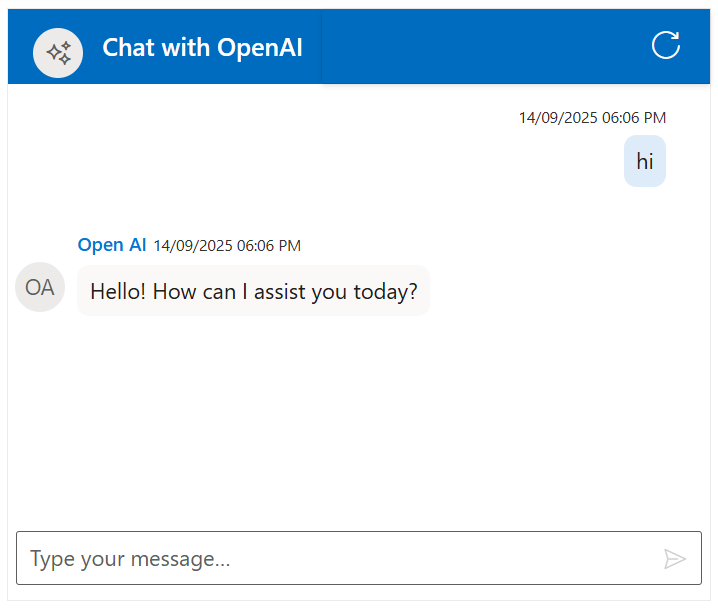
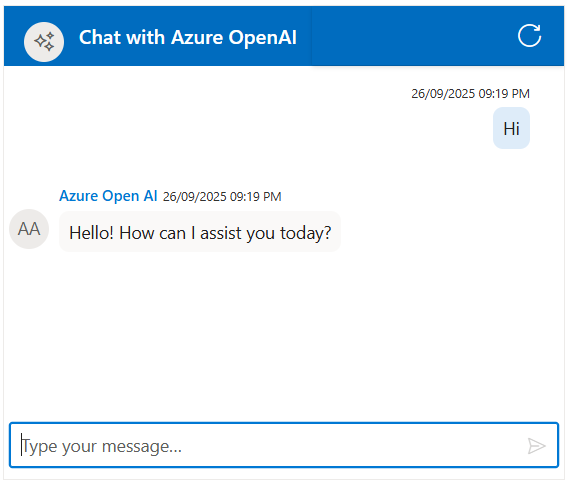
982586: conversion of OpenAI to Azure OpenAI

diff --git a/ej2-asp-core-toc.html b/ej2-asp-core-toc.html
@@ -589,7 +589,7 @@
 							<a href="/ej2-asp-core/chat-ui/ai-integrations/gemini-integration">Integration with Google Gemini</a>
 						</li>
 						<li>
-							<a href="/ej2-asp-core/chat-ui/ai-integrations/openai-integration">Integration with Open AI</a>
+							<a href="/ej2-asp-core/chat-ui/ai-integrations/openai-integration">Integration with Azure Open AI</a>
 						</li>
 					</ul>
 				</li>

diff --git a/ej2-asp-mvc-toc.html b/ej2-asp-mvc-toc.html
@@ -592,7 +592,7 @@
 							<a href="/ej2-asp-mvc/chat-ui/ai-integrations/gemini-integration">Integration with Google Gemini</a>
 						</li>
 						<li>
-							<a href="/ej2-asp-mvc/chat-ui/ai-integrations/openai-integration">Integration with Open AI</a>
+							<a href="/ej2-asp-mvc/chat-ui/ai-integrations/openai-integration">Integration with Azure Open AI</a>
 						</li>
 					</ul>
 				</li>

diff --git a/ej2-asp-core-mvc/code-snippet/chat-ui/ai-integrations/Asp.net-MVC/openai/openai.cs b/ej2-asp-core-mvc/code-snippet/chat-ui/ai-integrations/Asp.net-MVC/openai/openai.cs
@@ -6,7 +6,8 @@ using OpenAI;
 using OpenAI.Chat;
 using Syncfusion.EJ2.InteractiveChat;
 using Newtonsoft.Json;
-
+using Azure.AI.OpenAI;
+using Azure;
 private readonly ILogger<HomeController> _logger;
 public List<ToolbarItemModel> HeaderToolbar { get; set; } = new List<ToolbarItemModel>();
 public HomeController(ILogger<HomeController> logger)
@@ -19,7 +20,7 @@ public IActionResult Index()
     HeaderToolbar.Add(new ToolbarItemModel { align = "Right", iconCss = "e-icons e-refresh", tooltip = "Refresh" });
     ViewBag.HeaderToolbar = HeaderToolbar;
     var currentUser = new ChatUIUser { Id = "user1", User = "You" };
-    var aiUser = new ChatUIUser { Id = "ai", User = "Open AI" };
+    var aiUser = new ChatUIUser { Id = "ai", User = "Azure Open AI" };
     ViewBag.CurrentUser = currentUser;
     ViewBag.AIUser = aiUser;
 
@@ -37,22 +38,32 @@ public async Task<IActionResult> GetAIResponse([FromBody] PromptRequest request)
             _logger.LogWarning("Prompt is null or empty.");
             return BadRequest("Prompt cannot be empty.");
         }
-        string apiKey = ""; // Replace with your OpenAI API key
-        var openAiClient = new OpenAIClient(apiKey);
-        var chatClient = openAiClient.GetChatClient("gpt-4o-mini"); // Use your preferred model, e.g., "gpt-4o-mini" or "gpt-4o"
-        OpenAI.Chat.ChatCompletion completion = await chatClient.CompleteChatAsync(request.Prompt);
-        string responseText = completion.Content[0].Text;
+        string endpoint = ""; // Replace with your Azure OpenAI endpoint
+        string apiKey = ""; // Replace with your Azure OpenAI API key
+        string deploymentName = ""; // Replace with your Azure OpenAI deployment name (e.g., gpt-4o-mini)
+
+        var credential = new AzureKeyCredential(apiKey);
+        var client = new AzureOpenAIClient(new Uri(endpoint), credential);
+        var chatClient = client.GetChatClient(deploymentName);
+
+        var chatCompletionOptions = new ChatCompletionOptions();
+        var completion = await chatClient.CompleteChatAsync(
+            new[] { new UserChatMessage(request.Prompt) },
+            chatCompletionOptions
+        );
+
+        string responseText = completion.Value.Content[0].Text;
         if (string.IsNullOrEmpty(responseText))
         {
-            _logger.LogError("OpenAI API returned no text.");
-            return BadRequest("No response from OpenAI.");
+            _logger.LogError("Azure OpenAI API returned no text.");
+            return BadRequest("No response from Azure Open AI.");
         }
-        _logger.LogInformation("OpenAI response received: {Response}", responseText);
+        _logger.LogInformation("Azure OpenAI response received: {Response}", responseText);
         return Json(responseText);
     }
     catch (Exception ex)
     {
-        _logger.LogError("Exception in OpenAI call: {Message}", ex.Message);
+        _logger.LogError("Exception in Azure Open AI call: {Message}", ex.Message);
         return BadRequest($"Error generating response: {ex.Message}");
     }
 }

diff --git a/ej2-asp-core-mvc/code-snippet/chat-ui/ai-integrations/Asp.net-core/openai/openai.cs b/ej2-asp-core-mvc/code-snippet/chat-ui/ai-integrations/Asp.net-core/openai/openai.cs
@@ -1,8 +1,10 @@
 using Microsoft.AspNetCore.Mvc;
-using Microsoft.AspNetCore.Mvc.RazorPages; 
+using Microsoft.AspNetCore.Mvc.RazorPages;
 using System.Threading.Tasks;
 using OpenAI.Chat;
 using OpenAI;
+using Azure;
+using Azure.AI.OpenAI;
 private readonly ILogger<IndexModel> _logger;
 public List<ToolbarItemModel> HeaderToolbar { get; set; } = new List<ToolbarItemModel>();
 
@@ -29,25 +31,33 @@ public async Task<IActionResult> OnPostGetAIResponse([FromBody] PromptRequest re
             return BadRequest("Prompt cannot be empty.");
         }
 
-        string apiKey = ""; // Replace with your OpenAI API key
-        var openAiClient = new OpenAIClient(apiKey);
-        var chatClient = openAiClient.GetChatClient("gpt-4o-mini"); // Use your preferred model, e.g., "gpt-4o-mini" or "gpt-4o"
+        string endpoint = ""; // Replace with your Azure OpenAI endpoint
+        string apiKey = ""; // Replace with your Azure OpenAI API key
+        string deploymentName = ""; // Replace with your Azure OpenAI deployment name (e.g., gpt-4o-mini) 
 
-        ChatCompletion completion = await chatClient.CompleteChatAsync(request.Prompt);
-        string response = completion.Content[0].Text;
+        var credential = new AzureKeyCredential(apiKey);
+        var client = new AzureOpenAIClient(new Uri(endpoint), credential);
+        var chatClient = client.GetChatClient(deploymentName);
 
-        if (string.IsNullOrEmpty(response))
+        var chatCompletionOptions = new ChatCompletionOptions();
+        var completion = await chatClient.CompleteChatAsync(
+            new[] { new UserChatMessage(request.Prompt) },
+            chatCompletionOptions
+        );
+        string responseText = completion.Value.Content[0].Text;
+
+        if (string.IsNullOrEmpty(responseText))
         {
-            _logger.LogError("Open AI API returned no text.");
-            return BadRequest("No response from Open AI.");
+            _logger.LogError("Azure Open AI API returned no text.");
+            return BadRequest("No response from Azure Open AI.");
         }
 
-        _logger.LogInformation("Open AI response received: {Response}", response);
-        return new JsonResult(response);
+        _logger.LogInformation("Azure Open AI response received: {Response}", responseText);
+        return new JsonResult(responseText);
     }
     catch (Exception ex)
     {
-        _logger.LogError("Exception in Open AI call: {Message}", ex.Message);
+        _logger.LogError("Exception in Azure Open AI call: {Message}", ex.Message);
         return BadRequest($"Error generating response: {ex.Message}");
     }
 }

diff --git a/ej2-asp-core-mvc/code-snippet/chat-ui/ai-integrations/Asp.net-MVC/gemini/gemini.cs b/ej2-asp-core-mvc/code-snippet/chat-ui/ai-integrations/Asp.net-MVC/gemini/gemini.cs
@@ -37,7 +37,7 @@ public async Task<IActionResult> GetAIResponse([FromBody] PromptRequest request)
         }
         string apiKey = ""; // Replace with your key
         var googleAI = new GoogleAI(apiKey: apiKey);
-        var model = googleAI.GenerativeModel(model: Model.Gemini15Flash);
+        var model = googleAI.GenerativeModel(model: Model.Gemini15Flash); // Replace Your Model Name Here
 
         var responseText = await model.GenerateContent(request.Prompt);
         if (string.IsNullOrEmpty(responseText?.Text))

diff --git a/ej2-asp-core-mvc/code-snippet/chat-ui/ai-integrations/Asp.net-core/gemini/gemini.cs b/ej2-asp-core-mvc/code-snippet/chat-ui/ai-integrations/Asp.net-core/gemini/gemini.cs
@@ -31,7 +31,7 @@ public async Task<IActionResult> OnPostGetAIResponse([FromBody] PromptRequest re
 
         string apiKey = ""; // Replace with your key
         var googleAI = new GoogleAI(apiKey: apiKey);
-        var model = googleAI.GenerativeModel(model: Model.Gemini15Flash);
+        var model = googleAI.GenerativeModel(model: Model.Gemini15Flash); // Replace Your Model Name Here
 
         var response = await model.GenerateContent(request.Prompt);
 

diff --git a/ej2-asp-core-mvc/chat-ui/EJ2_ASP.NETCORE/ai-integrations/openai-integration.md b/ej2-asp-core-mvc/chat-ui/EJ2_ASP.NETCORE/ai-integrations/openai-integration.md
@@ -1,25 +1,25 @@
 ---
 layout: post
-title: Open AI in ##Platform_Name## Chat UI Control | Syncfusion
-description: Checkout and learn about Integration of Open AI in Syncfusion ##Platform_Name## Chat UI control of Syncfusion Essential JS 2 and more.
+title: Azure Open AI in ##Platform_Name## Chat UI Control | Syncfusion
+description: Checkout and learn about Integration of Azure Open AI in Syncfusion ##Platform_Name## Chat UI control of Syncfusion Essential JS 2 and more.
 platform: ej2-asp-core-mvc
-control: Open AI
+control: Azure Open AI
 publishingplatform: ##Platform_Name##
 documentation: ug
 ---
 
-# Integration of Open AI With Chat UI component 
+# Integration of Azure Open AI With Chat UI component 
 
-The Syncfusion Chat UI supports integration with (OpenAI)[https://platform.openai.com/docs/overview], enabling advanced conversational AI features in your Asp Core applications.
+The Syncfusion AI AssistView supports integration with [Azure Open AI](https://microsoft.github.io/PartnerResources/skilling/ai-ml-academy/resources/openai), enabling advanced conversational AI features in your Core applications.
 
 ## Getting Started With the Chat UI Component
 
-Before integrating Open AI, ensure that the Syncfusion Chat UI control is correctly rendered in your core application:
+Before integrating Azure Open AI, ensure that the Syncfusion Chat UI control is correctly rendered in your core application:
 [ Asp Core Getting Started Guide](../getting-started)
 
 ## Prerequisites
 
-* OpenAI account to generate an API key for accessing the `OpenAI` API
+* An Azure account with access to `Azure Open AI` services and a generated API key.
 
 * Syncfusion Chat UI for Core `Syncfusion.EJ2.AspNet.Core` Install ASP.NET Core package in the application.
 
@@ -32,36 +32,40 @@ Install the Syncfusion ASP.NET Core package in the application using the Package
 NuGet\Install-Package Syncfusion.EJ2.AspNet.Core
 ```
 
-Install the Open AI package in the application using the Package Manager Console.
+Install the Open AI and Azure Open AI package in the application using Package Manager Console.
 
 ```bash 
 
 NuGet\Install-Package OpenAI
+NuGet\Install-Package Azure.AI.OpenAI
+NuGet\Install-Package Azure.Core
 
 ```
 
 
-## Generate API Key
+## Configure Azure Open AI
 
-1. Go to [Open AI](https://platform.openai.com/docs/overview) and sign in with your Google account. If you don’t have one, create a new account. 
+1. Log in to the [Azure Portal](https://portal.azure.com/#home) and navigate to your Azure Open AI resource.
 
-2. Once logged in, click on your profile icon in the top-right corner and select `API Keys` from the dropdown menu.  
+2. Under Resource Management, select Keys and Endpoint to retrieve your API key and endpoint URL.  
 
-3. Click the `+ Create new secret key` button. You’ll be prompted to name the key (optional). Confirm to generate the key.
+3. Copy the API key, endpoint, and deployment name (e.g., gpt-4o-mini). Ensure the API version (e.g., 2024-07-01-preview) matches your resource configuration.
 
-4. Your API key will be displayed once. Copy it and store it securely, as it won’t be shown again.
+4. Store these values securely, as they will be used in your application.
 
-> `Security Note`: Never commit the API key to version control. Use environment variables or a secret manager for production.
+> `Security Note`: Never expose your API key in client-side code for production applications. Use a server-side proxy or environment variables to manage sensitive information securely.
 
-##  Integration Open AI with Chat UI
+##  Integration Azure Open AI with Chat UI
 
 You can add the below respective files in your application:
 
-* Add your generated `API Key` at the line 
+* Update the following configuration values with your Azure Open AI details:
 
 ```bash
 
-const openaiApiKey = 'Place your API key here';  
+string endpoint = "Your_Azure_OpenAI_Endpoint";
+string apiKey = "Your_Azure_OpenAI_API_Key";
+string deploymentName = "Your_Deployment_Name";  
 
 ```
 
@@ -74,7 +78,7 @@ const openaiApiKey = 'Place your API key here';
 {% endhighlight %}
 {% endtabs %}
   
-![Open AI](../../images/openai.png)
+![Azure Open AI](../../images/openai.png)
 
 ## Run and Test 
 
@@ -82,4 +86,4 @@ Run the application in the browser using the following command.
 
 Build and run the app (Ctrl + F5).
 
-Open `https://localhost:44321` to interact with your Open AI for dynamic response.
+Open `https://localhost:44321` to interact with your Azure Open AI for dynamic response.

diff --git a/ej2-asp-core-mvc/chat-ui/EJ2_ASP.MVC/ai-integrations/openai-integration.md b/ej2-asp-core-mvc/chat-ui/EJ2_ASP.MVC/ai-integrations/openai-integration.md
@@ -1,25 +1,25 @@
 ---
 layout: post
-title: Open AI in ##Platform_Name## Chat UI Control | Syncfusion
-description: Checkout and learn about Integration of Open AI in Syncfusion ##Platform_Name## Chat UI control of Syncfusion Essential JS 2 and more.
+title: Azure Open AI in ##Platform_Name## Chat UI Control | Syncfusion
+description: Checkout and learn about Integration of Azure Open AI in Syncfusion ##Platform_Name## Chat UI control of Syncfusion Essential JS 2 and more.
 platform: ej2-asp-core-mvc
-control: Open AI
+control: Azure Open AI
 publishingplatform: ##Platform_Name##
 documentation: ug
 ---
 
-# Integration of Open AI With Chat UI component 
+# Integration of Azure Open AI With Chat UI component 
 
-The Syncfusion Chat UI supports integration with (OpenAI)[https://platform.openai.com/docs/overview], enabling advanced conversational AI features in your Asp MVC applications.
+The Syncfusion AI AssistView supports integration with [Azure Open AI](https://microsoft.github.io/PartnerResources/skilling/ai-ml-academy/resources/openai), enabling advanced conversational AI features in your MVC applications.
 
 ## Getting Started With the Chat UI Component
 
-Before integrating Open AI, ensure that the Syncfusion Chat UI control is correctly rendered in your MVC application:
+Before integrating Azure Open AI, ensure that the Syncfusion Chat UI control is correctly rendered in your MVC application:
 [ MVC Getting Started Guide](../getting-started)
 
 ## Prerequisites
 
-* OpenAI account to generate an API key for accessing the `OpenAI` API
+* An Azure account with access to `Azure Open AI` services and a generated API key.
 
 * Syncfusion Chat UI for MVC `Syncfusion.EJ2.MVC5` Install ASP.NET MVC package in the application.
 
@@ -33,36 +33,40 @@ NuGet\Install-Package Syncfusion.EJ2.MVC5
 
 ```
 
-Install the Open AI package in the application using the Package Manager Console.
+Install the Open AI and Azure Open AI package in the application using Package Manager Console.
 
 ```bash 
 
 NuGet\Install-Package OpenAI
+NuGet\Install-Package Azure.AI.OpenAI
+NuGet\Install-Package Azure.Core
 
 ```
 
 
 ## Generate API Key
 
-1. Go to [Open AI](https://platform.openai.com/docs/overview) and sign in with your Google account. If you don’t have one, create a new account. 
+1. Log in to the [Azure Portal](https://portal.azure.com/#home) and navigate to your Azure Open AI resource. 
 
-2. Once logged in, click on your profile icon in the top-right corner and select `API Keys` from the dropdown menu.  
+2. Under Resource Management, select Keys and Endpoint to retrieve your API key and endpoint URL.  
 
-3. Click the `+ Create new secret key` button. You’ll be prompted to name the key (optional). Confirm to generate the key.
+3. Copy the API key, endpoint, and deployment name (e.g., gpt-4o-mini). Ensure the API version (e.g., 2024-07-01-preview) matches your resource configuration.
 
-4. Your API key will be displayed once. Copy it and store it securely, as it won’t be shown again.
+4. Store these values securely, as they will be used in your application.
 
-> `Security Note`: Never commit the API key to version control. Use environment variables or a secret manager for production.
+> `Security Note`: Never expose your API key in client-side code for production applications. Use a server-side proxy or environment variables to manage sensitive information securely
 
-##  Integration Open AI with Chat UI
+##  Integration Azure Open AI with Chat UI
 
 You can add the below respective files in your application:
 
-* Add your generated `API Key` at the line 
+* Update the following configuration values with your Azure Open AI details:
 
 ```bash
 
-const openaiApiKey = 'Place your API key here';  
+string endpoint = "Your_Azure_OpenAI_Endpoint";
+string apiKey = "Your_Azure_OpenAI_API_Key";
+string deploymentName = "Your_Deployment_Name";
 
 ```
 
@@ -75,7 +79,7 @@ const openaiApiKey = 'Place your API key here';
 {% endhighlight %}
 {% endtabs %}
   
-![Open AI](../../images/openai.png)
+![Azure Open AI](../../images/openai.png)
 
 ## Run and Test 
 
@@ -83,4 +87,4 @@ Run the application in the browser using the following command.
 
 Build and run the app (Ctrl + F5).
 
-Open `https://localhost:44321` to interact with your Open AI for dynamic response.
+Open `https://localhost:44321` to interact with your Azure Open AI for dynamic response.

diff --git a/ej2-asp-core-mvc/ai-assistview/EJ2_ASP.NETCORE/ai-integrations/openai-integration.md b/ej2-asp-core-mvc/ai-assistview/EJ2_ASP.NETCORE/ai-integrations/openai-integration.md
@@ -10,7 +10,7 @@ documentation: ug
  
 # Integration of Azure Open AI With AI AssistView control
  
-The Syncfusion AI AssistView supports integration with [Azure Open AI](https://microsoft.github.io/PartnerResources/skilling/ai-ml-academy/resources/openai), enabling advanced conversational AI features in your Angular applications.
+The Syncfusion AI AssistView supports integration with [Azure Open AI](https://microsoft.github.io/PartnerResources/skilling/ai-ml-academy/resources/openai), enabling advanced conversational AI features in your Core applications.
  
 ## Getting Started With the AI AssistView control
  

diff --git a/ej2-asp-core-mvc/ai-assistview/EJ2_ASP.MVC/ai-integrations/openai-integration.md b/ej2-asp-core-mvc/ai-assistview/EJ2_ASP.MVC/ai-integrations/openai-integration.md
@@ -10,7 +10,7 @@ documentation: ug
  
 # Integration of Azure Open AI With AI AssistView control
  
-The Syncfusion AI AssistView supports integration with [Azure Open AI](https://microsoft.github.io/PartnerResources/skilling/ai-ml-academy/resources/openai), enabling advanced conversational AI features in your Angular applications.
+The Syncfusion AI AssistView supports integration with [Azure Open AI](https://microsoft.github.io/PartnerResources/skilling/ai-ml-academy/resources/openai), enabling advanced conversational AI features in your MVC applications.
  
 ## Getting Started With the AI AssistView control
  
